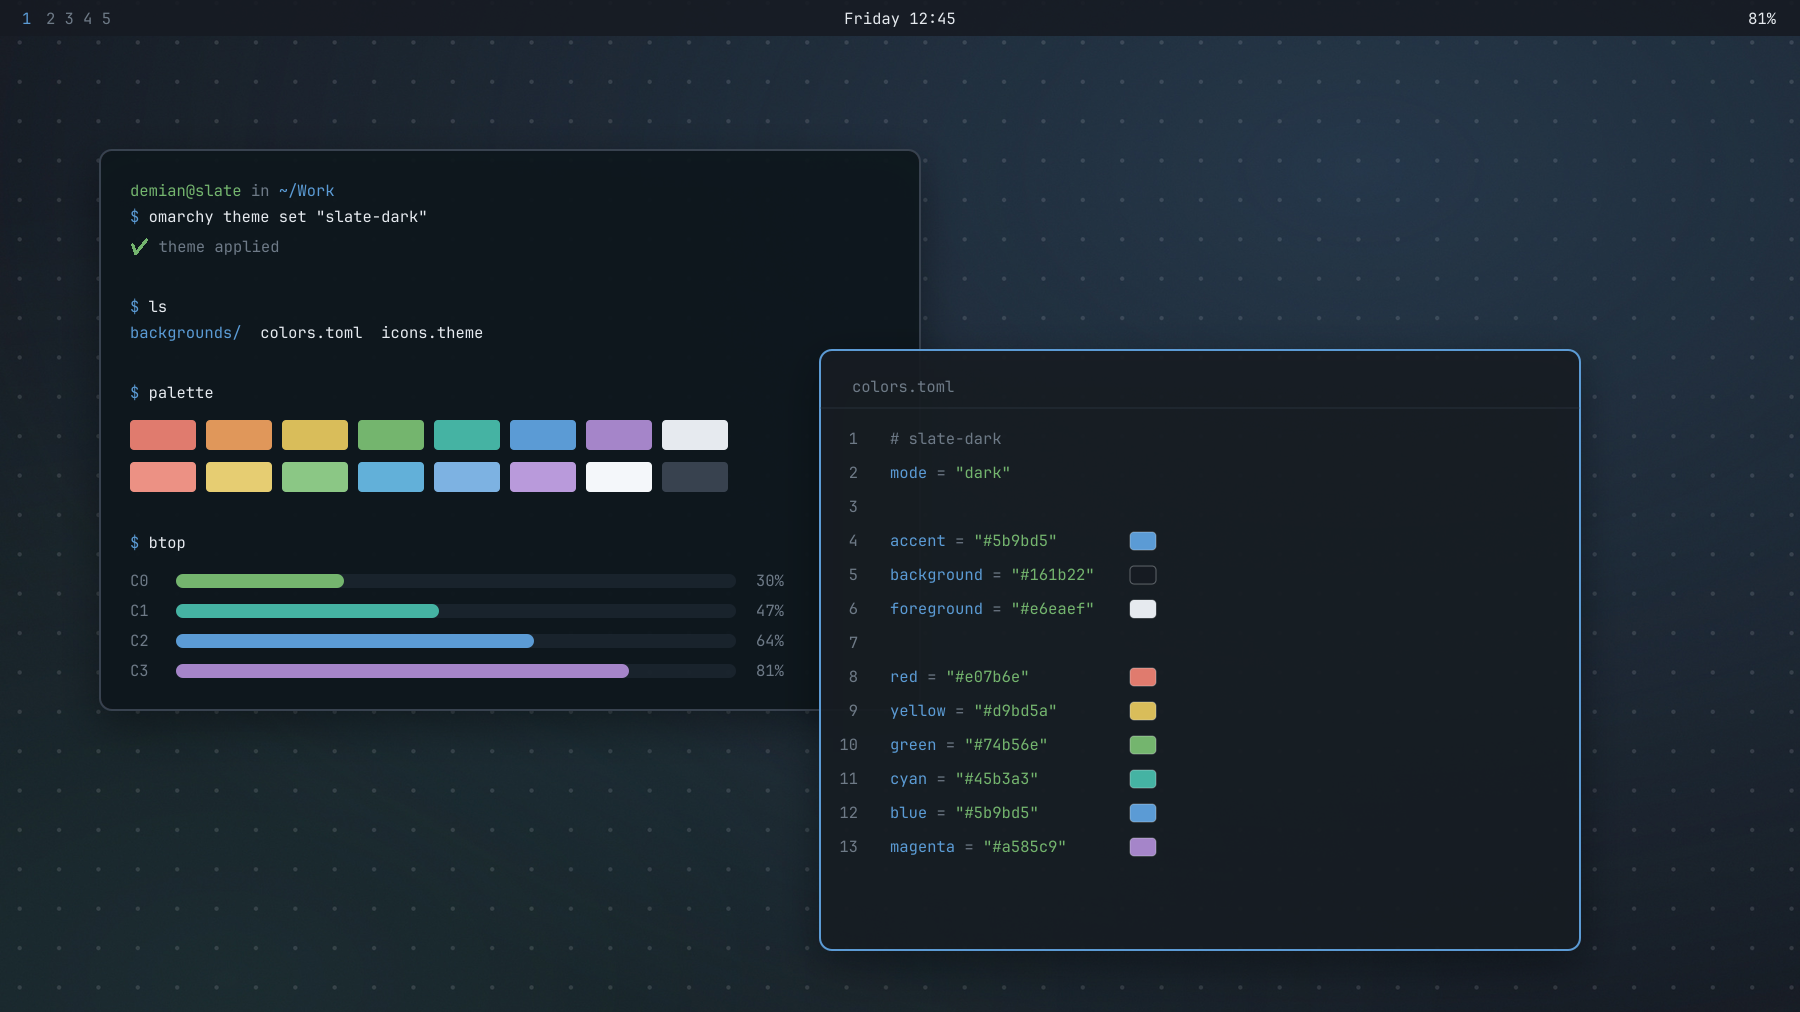
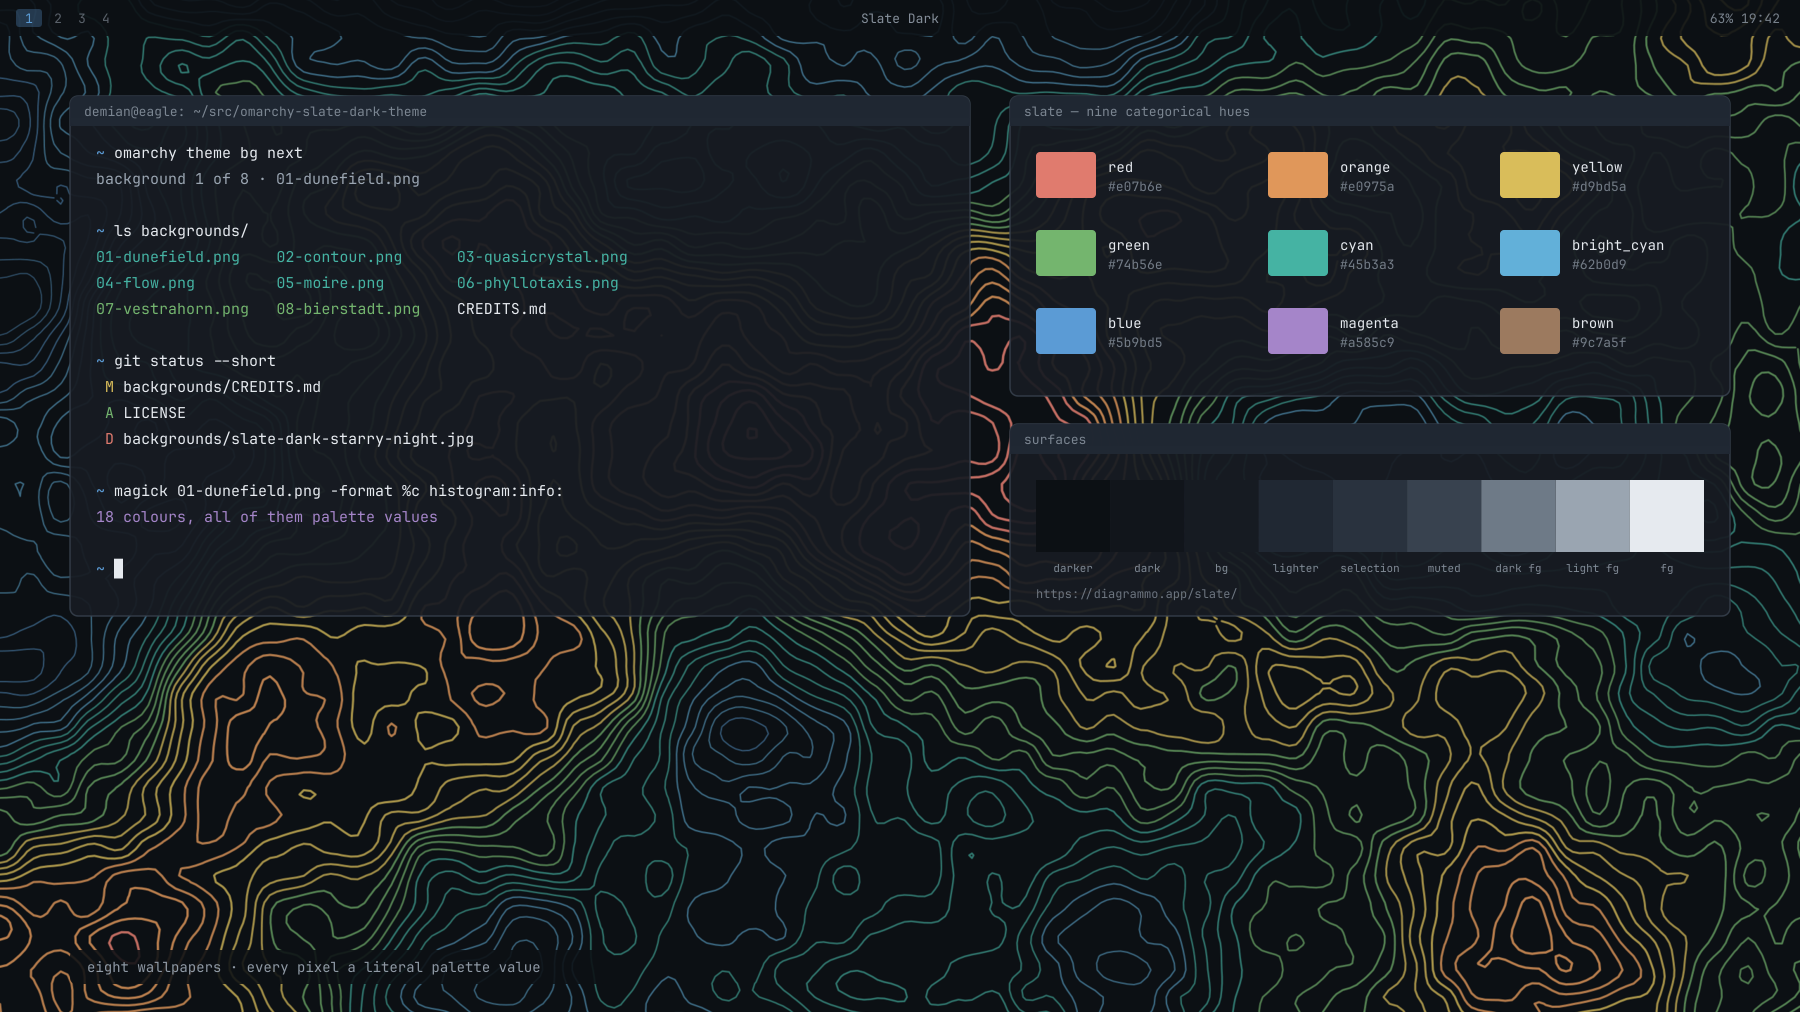
Replace backgrounds with a literal-palette set of eight
Every wallpaper is now built from the eighteen literal Slate values with no
tints, shades or interpolated intermediates in the design. Six are generated
fields rasterised from SVG -- a scalar or vector field drawn as its level sets,
its paths, or its interference. Two are a photograph and a painting put through
an OKLab posteriser that carries tonal structure on the neutral ramp and spends
the nine categorical hues only where the source is genuinely saturated.

Files are numbered because Omarchy picks a theme's default background by sort
order, so 01-dunefield.png is what a fresh apply lands on.

Adds LICENSE, which segments the repo three ways: MIT for the theme definition,
CC BY 4.0 for the six generated backgrounds, and the source images' own terms
for the two posterised ones. 07-vestrahorn.png derives from a CC BY-SA 4.0
photograph and carries that obligation on its own -- nothing else in the repo
becomes share-alike.

README rewritten for a public reader, and documents that omarchy theme update
only runs git pull: Omarchy serves backgrounds from a staged copy, so a pull
alone leaves the old wallpapers in place until the theme is re-applied.

Claude-Session: https://claude.ai/code/session_01De6TRouwAEWitkGdHEbk3S

diff --git a/backgrounds/CREDITS.md b/backgrounds/CREDITS.md
@@ -1,19 +1,48 @@
-# Slate art backgrounds
+# Slate Dark backgrounds
 
-Public-domain artworks and photographs, converted to greyscale and gradient-mapped
-onto ramps built from the Slate palette. Each image keeps a neutral slate spine and
-spends exactly one theme accent, so the set showcases the palette without any single
-wallpaper becoming a rainbow.
+Eight wallpapers at 2560 × 1600. Every one is built from the **literal** Slate
+palette — the eighteen values in `colors.toml` and on
+<https://diagrammo.app/slate/> — with no tints, shades or interpolated
+intermediates in the design. (The generated ones are line art, so their
+rasterised edges carry antialiasing between a line's colour and the ground.)
 
-| File | Source | Accent |
-|------|--------|--------|
-| `great-wave` | Katsushika Hokusai, *The Great Wave off Kanagawa* (c. 1831) | blue `#5b9bd5` |
-| `starry-night` | Vincent van Gogh, *The Starry Night* (1889) | yellow `#d9bd5a` on blue |
-| `red-fuji` | Katsushika Hokusai, *Fine Wind, Clear Morning* (c. 1831) | cyan `#45b3a3` |
-| `tetons` | Ansel Adams, *The Tetons and the Snake River* (1942) | orange `#e0975a` |
-| `canyon` | Ansel Adams, *Grand Canyon National Park* (1941–42) | magenta `#a585c9` |
+Files are numbered because Omarchy picks a theme's default background by sort
+order — `01-dunefield.png` is what you get on first apply, and `omarchy theme
+bg next` walks the rest from there.
 
-Hokusai and van Gogh scans via Wikimedia Commons; the Adams photographs are US
-National Archives records (79-AA series), public domain as federal works.
+## Generated fields
 
-Regenerate with `~/.local/share/slate-backgrounds/slate-art-backgrounds.sh` (sources kept alongside it).
+No source image. Each defines a scalar or vector field over the frame and draws
+something true about it, then rasterises straight from SVG.
+
+| File | What it draws |
+|------|---------------|
+| `01-dunefield.png` | A fractal noise field contoured at close intervals, so the lines pack and thin the way wind ripples do. |
+| `02-contour.png` | Level sets of four gaussian summits, tinted the way a hypsometric map is: blue in the basins, climbing through green and yellow to red on the tops. |
+| `03-quasicrystal.png` | Seven plane waves at incommensurate angles, contoured. The pattern never repeats across the frame. |
+| `04-flow.png` | Particles released into a noise field and traced until they leave the frame; hue follows where each one started. |
+| `05-moire.png` | Three families of concentric rings at slightly different pitches. Everything visible between them is interference, not drawn. |
+| `06-phyllotaxis.png` | Dots placed at the golden angle — the packing a sunflower head uses. Hue steps outward. |
+
+Generator: `abstract.py` in the build tree (see the theme notes). Seeds are
+fixed, so a rebuild reproduces these exactly.
+
+## Posterised pictures
+
+Photographs and paintings put through an OKLab posteriser: the source is
+flattened, its lightness mapped into the theme's tonal range, and every pixel
+snapped to the nearest literal palette value. The neutral ramp carries the
+tonal structure; the nine categorical hues are spent only where the source is
+genuinely saturated. These files contain palette values and nothing else.
+
+| File | Source | Licence |
+|------|--------|---------|
+| `08-bierstadt.png` | Albert Bierstadt, *Looking Down Yosemite Valley, California* (1865) | Public domain — faithful reproduction via [Wikimedia Commons](https://commons.wikimedia.org/wiki/File:Looking_Down_Yosemite-Valley.jpg) |
+| `07-vestrahorn.png` | *Klifatindur / Vestrahorn, Stokksnes, Iceland* — Böhringer Friedrich (Wikimedia Commons user [Böhringer](https://commons.wikimedia.org/wiki/User:B%C3%B6hringer)) | [CC BY-SA 4.0](https://creativecommons.org/licenses/by-sa/4.0/) |
+
+### Share-alike notice
+
+`07-vestrahorn.png` is a derivative of a CC BY-SA 4.0 photograph, so it
+carries the same terms: keep the attribution above with it, and redistribute
+any further modification of that file under CC BY-SA 4.0. The other seven files
+have no such obligation.

diff --git a/README.md b/README.md
@@ -1,27 +1,67 @@
 # Slate Dark
 
-An Omarchy theme. Colors in `colors.toml`, wallpapers in `backgrounds/`.
+An [Omarchy](https://omarchy.org/) theme. Colours in `colors.toml`, wallpapers
+in `backgrounds/`.
 
-## Install on another machine
+Slate is a palette built to be read on a screen in a meeting — nine categorical
+hues that stay distinct from one another, on a calm blue-grey ground. See
+<https://diagrammo.app/slate/>. A light counterpart lives at
+[omarchy-slate-light-theme](../../../omarchy-slate-light-theme).
 
-    omarchy theme install ssh://anchor/home/demian/git/omarchy-slate-dark-theme.git
+## Install
 
-On anchor itself, use the local path instead — it can't SSH to itself:
+    omarchy theme install https://github.com/REPLACE-ME/omarchy-slate-dark-theme.git
 
-    omarchy theme install /home/demian/git/omarchy-slate-dark-theme.git
+Then pick it from the theme menu, or:
 
-## Update everywhere
+    omarchy theme set slate-dark
 
-    omarchy theme update    # pulls every git-installed theme
+## The backgrounds
+
+Eight wallpapers at 2560 × 1600, every one built from the **literal** Slate
+palette — the eighteen values in `colors.toml`, with no tints, shades or
+interpolated intermediates in the design.
+
+Six are generated fields: define a scalar or vector field over the frame, then
+draw something true about it — its level sets, the paths through it, its
+interference. Two are photographs and paintings put through a posteriser that
+puts the tonal structure on the neutral ramp and spends the nine hues only where
+the source is genuinely saturated.
+
+Files are numbered because Omarchy picks a theme's default background by sort
+order, so `01-dunefield.png` is what you get on first apply. `omarchy theme bg
+next` walks the rest.
+
+Sources, per-file licensing and the share-alike notice for `07-vestrahorn.png`
+are in [`backgrounds/CREDITS.md`](backgrounds/CREDITS.md). Terms are in
+[`LICENSE`](LICENSE) — MIT for the theme definition, CC BY 4.0 for the generated
+backgrounds, and the source images' own terms for the two posterised ones.
+
+## Updating
+
+    omarchy theme update
+
+That runs `git pull` on every git-installed theme. **It does not re-apply
+them**, and Omarchy serves backgrounds from a staged copy under
+`~/.local/state/omarchy/current/theme/`, so new or renamed wallpapers will not
+appear until you also run:
+
+    omarchy theme set slate-dark
 
 ## Editing
 
 eagle holds the working copy at `~/src/omarchy-slate-dark-theme`, symlinked into
-`~/.config/omarchy/themes/slate-dark`. The symlink is deliberate: `omarchy theme extras`
-skips symlinked themes, so `omarchy theme update` won't pull over uncommitted
-edits. Commit and push here, then `omarchy theme update` on the other machines.
+`~/.config/omarchy/themes/slate-dark`. The symlink is deliberate:
+`omarchy theme extras` skips symlinked themes, so `omarchy theme update` won't
+pull over uncommitted edits. Commit and push here, then `omarchy theme update`
+on the other machines.
+
+Any change here — backgrounds, `colors.toml`, anything — needs
+`omarchy theme set slate-dark` afterwards to take effect, for the staging reason
+above.
 
 Keep this theme free of code-bearing files (`*.lua`, `alacritty.toml`,
 `foot.ini`, `kitty.conf`, `ghostty.conf`, `vscode.json`) — Omarchy drops those
 from cloned themes and regenerates them from `colors.toml`. Per-app overrides
-belong in `~/.config/omarchy/themed/<name>.tpl` instead.
+belong in `~/.config/omarchy/themed/<name>.tpl` instead. This theme ships none
+of them, so it installs byte-for-byte.
